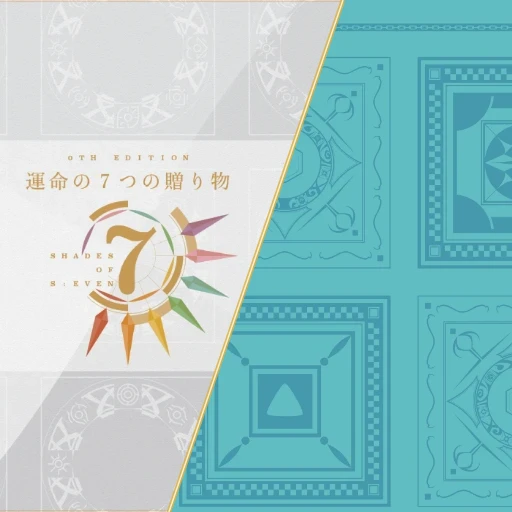
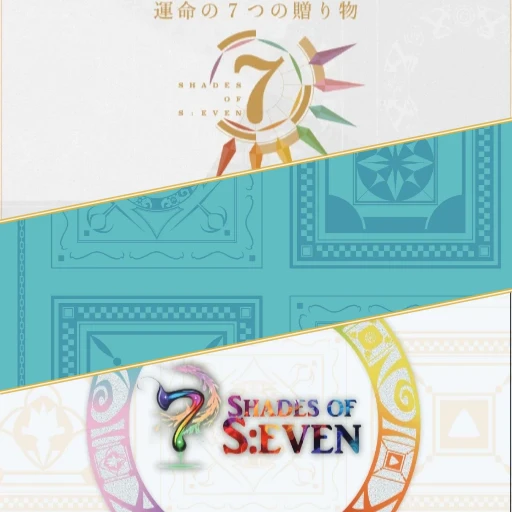
「まぜる」に旧0thを入れた／拡張は箱が無いのでパックで表す（続き840）
ユーザー指示2件:
・「混ぜる　には旧0th混ぜよう！」
・「拡張パックは別で箱のそばに置いてある感じで混ぜてるのを表現するのはどう？」

① まぜるが4セットに（リメイク＋0th拡張＋1st＋旧0th）。枚数の決まりは1枚も
   変えていない（112枚・7色×14・虹7・白4・黒3）。種類が 64 → 78。

② 🔴 調べたらサーバーに旧0thの表がそもそも無く、cardSet === "0th" の枝も
   無かった（＝オンラインで旧0thを選ぶとリメイクの山札になっていた）。
   表と枝の両方を写し、ズレを見張る検査も足した（A/B で4通りとも名指しで落ちる）。
   山札一覧（この対局の山）にも旧0thの節を足した。

③ 箱の帯を3本に。縦に割ると題字もロゴも切れるので横に割った
   （143px＝スマホの実寸で並べて決めた）。

④ 0th拡張だけは箱が無いので、エディションを選ぶ画面で箱の右下にパックを置いた。
   袋は開封の演出と同じ部品・封は切らない姿・指を食べない。

実測 28項目（スマホ横932x430 / PC 1280x800）・NG 0・例外0・404 0。
npm run check 27本とも合格。

🔴 Edge Function の再デプロイが要る（流すまではオンラインだけ古い山札）。
SQL の変更は無い。

diff --git a/src/changelog.js b/src/changelog.js
@@ -93,6 +93,17 @@ export const CHANGELOG = [
       "⚠ 焼く時に2つ踏んだ。①斜めにずらした帯をそのまま切ると**左上と右下の角に地（黒）の三角**が残る（両端の帯を画面の外まで広げて解決）②帯の中の絵を 0.78倍に縮めたら**上下の全幅が暗くなった**（暗い画素 21.6%。高さいっぱいに敷いて解決）。どちらも 143px で撮って気づいた。",
       "⚠ 「扇に3枚重ねる」案と「四分割＋7色」案も描いて実寸で並べたが、前者は小さくすると3枚とも潰れ、後者は7色の帯が強すぎて箱に見えなかった。**使わない案はツールから消した**（眠ったコードを残すと次に誰かが同じ物を作りかける＝続き801 で実際に踏んだ）。",
       "⚠ 実測22項目（スマホ横932x430 と PC 1280x800）。✕は**真ん中・上端・下端の3点とも**最前面が✕／箱・矢印・文字の実寸／画面の外へ出ない・巻き取りも出ない／オーラの画素／まぜるの箱が出て**絵が本当に読める**・裏と側面も混ぜた絵／**対照: スマホの印が無ければ元の小ささ(8.8px)に戻る**。A/B で直す前に戻すと、✕の真ん中で `span.icon-action-button-icon-wrap`（親=options-menu-button）が返る＝**報告どおり押せない**ことを確かめた。",
+      "🔴 **「まぜる」に旧0th を入れた**（ユーザー指示「混ぜるには旧0th混ぜよう！」）。混ぜる相手が**リメイク＋0th拡張＋1st＋旧0th の4セット**になった。⚠ **枚数の決まりは1枚も変えていない**（7色×14・虹7・白4・黒3＝112枚）。増えるのは**種類**だけで 64 → **78種**。1色あたりの種類が8→10になったので、配りは「6種が2枚・1種が1枚」から「**4種が2枚・5種が1枚**」へ。**どの色の札も最低1枚は入る**（まぜても消える札が無い）ことは今までどおり毎回検査している。",
+      "🔴 **入れる前に数えた。** 色ごとの種類・ONLYの数・配りの結果・白黒の種類（白10・黒9）を先に出して、**112枚のまま・1枚も消えない**ことを確かめてから手を入れた（`scratchpad/_p840calc.mjs`）。⚠ `src/cards-data.js` は node から import すると止まるので、検査と同じやり方で**本文を読んで**表を起こした。",
+      "🔴🔴 **サーバー側（Edge Function）に旧0thの表がそもそも無かった。** `cardSet === \"0th\"` の枝も無く、知らない値として**リメイクの山札に落ちていた**——つまりオンラインで旧0thを選ぶと、CPU戦と山札の中身が食い違っていた。まぜるが旧0thを見るようになったので、**表（19種）と枝の両方**を写した。⚠ 置き場所は `const MIXED_PER_COLOR` より**前**——検査がそこから `deckPoolForCardSet` までを切り出してそのまま動かすので、間に表を入れると落ちる（続き744 の実害）。",
+      "⚠ 写しがズレない見張りも足した（`check-cards` に旧0thの節）。0th拡張・1st とまったく同じ見方に加えて、**山札を組む枝そのもの**（`cardSet === \"0th\"` が在るか・まぜるが旧0thを渡しているか）も見る——**表だけ写して枝を足し忘れると、黙ってリメイクの山になる**ので。A/B で4通り崩して、4通りとも名指しで落ちることを確かめた（終わってから指紋で元に戻ったことも照合）。",
+      "🔴 **山札一覧（この対局の山）にも旧0thの節を足した。** 足し忘れると「一覧に無い札が対局で出てくる」という、いちばん困る形になる。**新しいセットを混ぜる時、直す所は山札の組み立てだけではない**（続き758 で `ALL_CARDS` を足し忘れたのと同じ家族）。",
+      "🔴 **まぜるの箱の帯を3本にした**（リメイク／1st／旧0th）。⚠ ところが**縦に3つ割ると全部読めなくなった**——512px角の蓋を縦3分割すると1本あたり幅の1/3しか見えず、題字もロゴも真ん中で切れる。⇒ **横に割った**（幅は丸ごと見えるので「運命の７つの贈り物」も「SHADES OF S:EVEN」も虹の輪も読める）。**縦と横を並べて143px＝スマホの実寸で見てから決めた。**",
+      "⚠ 斜めのずれ（傾き）も**帯の太さに比例**させた。決め打ちのままだと、帯が2本から3本になった時にずれが帯の太さを越えて、**どの帯も隣の絵で埋まる**。",
+      "🔴 **0th拡張だけは箱が無い**（ブースターパックで売られた拡張）ので、帯には入れられない。⇒ ユーザー案「**拡張パックは別で箱のそばに置いてある感じで混ぜてるのを表現**」どおり、エディションを選ぶ画面で**箱の右下にパックを1つ立てかけた**。袋には元から「0TH EDITION」「BOOSTER PACK」と刷ってあるので、文字を足していない。",
+      "⚠ 袋は開封の演出と**同じ部品**（pack-bag.js が唯一の持ち主＝写しを作らない）。封は切らない姿で出す。`pointer-events: none` なので**箱を指で回す操作を食べない**（教訓4 の家族）。画像も canvas も1枚も足していない（袋は全部 CSS のグラデーション＝#441/#607）。",
+      "🔴 袋の大きさは**文書に入ってから実測して**決める（rem が何px かに頼らない）。最初は作った直後に測っていたが、その時点ではまだ文書に付いていないので `offsetHeight` が 0 ＝「測れたつもりで倍率が無限大」になる。⇒ 全部並べ終わってから測る形にした。",
+      "⚠ 実測28項目（スマホ横932x430・PC 1280x800）。パックが在る／「0TH EDITION」「BOOSTER PACK」と出る／高さが箱の0.65倍／箱の右に在る／画面の中に在る／**指を食べない**（最前面はパックではない）／**対照: パックは「まぜる」の札だけ**／蓋の絵が mixed-top.webp ／画面の外へ出ない・巻き取りも出ない。山札は**本物のアプリの中で組んで** 112枚・78種・7色とも14枚・虹7白4黒3・**4セットとも入っている**ことと、**山札一覧に旧0thの節が出る**ことまで見た。",
     ],
     devItemsEn: [
       "The deck-offer table gained a skin column, so the lid art travels with the offer instead of living only on the owner's device.",
@@ -116,6 +127,17 @@ export const CHANGELOG = [
       "Two baking mistakes caught by looking at the result at real size: slanted bands leave dark triangles in the corners unless they extend past the canvas, and shrinking the art inside a band leaves dark strips along the top and bottom.",
       "A fanned-lids design and a quartered one were drawn and compared at real size first; both read worse when small, and the unused branches were deleted from the tool rather than left asleep.",
       "Measured with 22 checks on phone and desktop sizes, with an A/B that reverts each fix and confirms the gear takes the tap again.",
+      "Old 0th now joins the Mixed deck, so it draws from four editions instead of three. The size rules are untouched: still 112 cards, fourteen of each colour; only the variety grows, from 64 kinds to 78.",
+      "The distribution was counted before the change, confirming nothing drops out: every colour card still gets at least one copy.",
+      "The server had no Old 0th table at all and no branch for it, so choosing Old 0th online silently built the remake deck. Both the table and the branch are now copied across, placed before the block the checker slices out and runs.",
+      "A check now compares that copy with the source and also looks for the branch itself, because copying the table without adding the branch fails silently; four deliberate breakages were each named by the checker.",
+      "The in-game deck list gained the Old 0th section too. Forgetting it would mean cards appearing in play that the list does not show.",
+      "The Mixed lid now carries three bands. Splitting a square lid into three vertical bands cut every title in half, so the bands run horizontally instead; the two versions were compared at real phone size before choosing.",
+      "The slant is now proportional to the band, since a fixed slant exceeds the band width once there are three of them.",
+      "The 0th expansion was sold as a booster pack and has no box, so it cannot be a band. A booster pack now leans against the box instead, which is what the pack already says on it.",
+      "The pack is the same component the opening animation uses, shown sealed, and it ignores pointer events so it never steals the finger that spins the box.",
+      "Its size is measured after it is in the document; measuring at creation time returns zero height and an infinite scale factor.",
+      "Measured with 28 checks, including building the Mixed deck inside the real app and confirming all four editions are present.",
     ],
   },
   {

diff --git a/supabase/functions/so7-apply-action.ts b/supabase/functions/so7-apply-action.ts
@@ -146,8 +146,39 @@ const FIRST_ED_NORMAL_CARDS: { id: string; color: string; count: number }[] = [
   { id: "1st-black-great-order", color: "black", count: 2 },
 ];
 
+// 旧0th EDITION（白地に虹の輪の版・2026.04 第2版）の通常カード19種。
+// 🔴 **src/cards-data-0th.js と同じ内容を持つ写し**（正はあちら＝tools/gen-0th-text.mjs が作る）。
+//   枚数を直す時は両方。7色は1色2種×7枚＝98、無色5種で7枚（白2+2・黒1+1+1）＝105枚。
+//   これにリメイクのなないろの欠片7枚を足して112枚でリメイクと同じになる。
+// ⚠ 旧0thには**虹・エターナル・ファーストが無い**（どれもリメイクのものをそのまま使う）。
+// ⚠ 「まぜる」（続き840 で4セット目に入った）もこの表を見るので、**写し忘れると
+//   CPU戦とフレンドリーマッチで山札の中身が違う**という一番分かりにくい形で出る。
+const OLD0TH_NORMAL_CARDS: { id: string; color: string; count: number }[] = [
+  { id: "0th-red-dash", color: "red", count: 7 },
+  { id: "0th-red-counterattack", color: "red", count: 7 },
+  { id: "0th-orange-force", color: "orange", count: 7 },
+  { id: "0th-orange-lost-item", color: "orange", count: 7 },
+  { id: "0th-yellow-steal", color: "yellow", count: 7 },
+  { id: "0th-yellow-thunder", color: "yellow", count: 7 },
+  { id: "0th-green-peoples-road", color: "green", count: 7 },
+  { id: "0th-green-rich-whim", color: "green", count: 7 },
+  { id: "0th-blue-greedy-bridge", color: "blue", count: 7 },
+  { id: "0th-blue-set-trap", color: "blue", count: 7 },
+  { id: "0th-pink-disclosure", color: "pink", count: 7 },
+  { id: "0th-pink-favorite-flower", color: "pink", count: 7 },
+  { id: "0th-purple-wait", color: "purple", count: 7 },
+  { id: "0th-purple-apocalypse", color: "purple", count: 7 },
+  { id: "0th-white-colorful-hole", color: "white", count: 2 },
+  { id: "0th-white-rainbow-rain", color: "white", count: 2 },
+  { id: "0th-black-faded-frog", color: "black", count: 1 },
+  { id: "0th-black-greedy-palette", color: "black", count: 1 },
+  { id: "0th-black-rainbow-curse", color: "black", count: 1 },
+];
+
 // どのカードセットで山札を組むか。クライアント（src/card-set.js）と同じ文字列。
 // 「まぜる」の山札を、通常のエディションと同じ内訳（7色×14枚・虹7・白4・黒3＝112枚）で組む。
+// 🔴【続き840】混ぜる相手は **リメイク＋0th拡張＋1st＋旧0th の4セット**（ユーザー指示
+//   「混ぜるには旧0th混ぜよう！」）。枚数の決まりは1枚も変えていない（種類が 64 → 78 に増える）。
 // 🔴 これは src/mixed-deck.js の**写し**。考え方の全文はあちらの冒頭に書いてある。
 //   ズレると「CPU戦とフレンドリーマッチで山札の中身が違う」という分かりにくい形で出るので、
 //   tools/check-cards.mjs が毎回照合する。
@@ -179,9 +210,10 @@ function mixedPickRandom<T>(list: T[], n: number): T[] {
 function buildMixedNormalCards(
   remake: { id: string; color: string; count: number }[],
   ex0: { id: string; color: string; count: number }[],
-  firstEd: { id: string; color: string; count: number }[]
+  firstEd: { id: string; color: string; count: number }[],
+  old0th: { id: string; color: string; count: number }[]
 ): { id: string; color: string; count: number }[] {
-  const sets = [remake || [], ex0 || [], firstEd || []];
+  const sets = [remake || [], ex0 || [], firstEd || [], old0th || []];
   const out: { id: string; color: string; count: number }[] = [];
   for (const color of MIXED_COLORS) {
     const perSet = sets.map((s) => s.filter((c) => c.color === color));
@@ -217,7 +249,15 @@ function deckPoolForCardSet(cardSet: unknown): { id: string; color: string; coun
     // 1st EDITION のみ。なないろの欠片はリメイクのものと同じカードなので使い回す。
     return [...FIRST_ED_NORMAL_CARDS, ...NORMAL_CARDS.filter((c) => c.id === "rainbow-shard")];
   }
-  if (cardSet === "mixed") return buildMixedNormalCards(NORMAL_CARDS, EX0_NORMAL_CARDS, FIRST_ED_NORMAL_CARDS);
+  // 🔴【続き840】旧0thの枝が**今まで無かった**（知らない値としてリメイクに落ちていた＝
+  //   オンラインで旧0thを選ぶと、CPU戦と山札の中身が食い違っていた）。
+  if (cardSet === "0th") {
+    // 旧0thのみ。なないろの欠片はリメイクのものと同じカードなので使い回す。
+    return [...OLD0TH_NORMAL_CARDS, ...NORMAL_CARDS.filter((c) => c.id === "rainbow-shard")];
+  }
+  if (cardSet === "mixed") {
+    return buildMixedNormalCards(NORMAL_CARDS, EX0_NORMAL_CARDS, FIRST_ED_NORMAL_CARDS, OLD0TH_NORMAL_CARDS);
+  }
   return NORMAL_CARDS; // 既定（知らない値が来た時もここ＝安全側）
 }
 

diff --git a/src/mixed-deck.js b/src/mixed-deck.js
@@ -4,27 +4,34 @@
 //   たとえば赤は全部で１４枚にしてください。その中で混ぜるカードのバランスがなるべく
 //   均等になるようにしてください。」
 //
+// 🔴 ユーザー指示（2026-11-24・続き840）: 「**混ぜるには旧0th混ぜよう！**」
+//   ⇒ 混ぜる相手は **リメイク＋0th拡張＋1st＋旧0th の4セット**になった。
+//     枚数の決まり（7色×14・虹7・白4・黒3＝112枚）は**1枚も変えていない**。
+//     ⚠ サーバー側（supabase/functions/so7-apply-action.ts）の写しにも
+//       **旧0thの表そのもの**が要る（無いと「CPU戦とフレンドリーマッチで山札が違う」になる）。
+//
 // それまでは3つのセットを**そのまま繋げていた**ので、赤だけで 14+14+14＝42枚、
 // 合計 322枚という別物の山になっていた（盤面49マスに配った後の山札が厚すぎて、
 // 1回の対局で出てくる札の割合も変わる）。
 //
 // ■ 組み方
 //   ・7色はそれぞれ **14枚**（通常のエディションと同じ）
-//   ・なないろの欠片 **7枚**（3セットで同じ札なので1種類しかない）
+//   ・なないろの欠片 **7枚**（どのセットでも同じ札なので1種類しかない。旧0thは虹を
+//     自分では持たず、リメイクのものを使い回している）
 //   ・白 **4枚** ＋ 黒 **3枚**（リメイク／0th拡張と同じ内訳）
 //   合計 98 + 7 + 7 = **112枚**＝リメイク・0th拡張・1st とぴったり同じ。
 //
 // ■ 色（7色）の配り方 ＝ なるべく均等
-//   その色の種類を3セットから全部集めると**8種類**（リメイク2・0th拡張4・1st 2）。
+//   その色の種類を4セットから全部集めると**10種類**（リメイク2・0th拡張4・1st 2・旧0th 2）。
 //   🔴 **ONLYカード（元のセットで1枚しか入らない札）は1枚のまま**にする
 //     （0th拡張の決まり「ONLYカードは1枚ずつしか入れれません」）。
-//   残り7種類で13枚を分けるので、**6種類が2枚・1種類が1枚**になる。
+//   残り9種類で13枚を分けるので、**4種類が2枚・5種類が1枚**になる。
 //   ⇒ **どの種類も最低1枚は入る**（まぜても消える札が無い）。
 //   ⚠ 「余りの1枚」がいつも同じエディションへ偏らないよう、並べる時に
 //     **エディションを交互**にしてから先頭から配る。
 //
 // ■ 白黒だけは全種類を入れられない
-//   白は8種類・黒は6種類あるのに、枠は白4・黒3しかない。
+//   白は10種類・黒は9種類あるのに、枠は白4・黒3しかない。
 //   ⇒ **毎回その中から無作為に選ぶ**（各1枚）。こうすればどの札にも出番があり、
 //     対局ごとに顔ぶれが変わる。**決め打ちにすると半分の札が永久に出てこない。**
 //
@@ -59,9 +66,10 @@ function pickRandom(list, n) {
   return pool.slice(0, n);
 }
 
-// remake / ex0 / firstEd は、それぞれ { id, color, count } の配列。
-export function buildMixedNormalCards(remake, ex0, firstEd) {
-  const sets = [remake || [], ex0 || [], firstEd || []];
+// remake / ex0 / firstEd / old0th は、それぞれ { id, color, count } の配列。
+// ⚠ old0th は後から足した引数（続き840）。渡されなくても今までどおり動く（省略＝3セット）。
+export function buildMixedNormalCards(remake, ex0, firstEd, old0th) {
+  const sets = [remake || [], ex0 || [], firstEd || [], old0th || []];
   const out = [];
 
   // --- 7色 ---
@@ -84,7 +92,7 @@ export function buildMixedNormalCards(remake, ex0, firstEd) {
     }
   }
 
-  // --- なないろの欠片（3セットで同じ札なので1種類だけ） ---
+  // --- なないろの欠片（どのセットでも同じ札なので1種類だけ） ---
   const rainbow = sets.flat().find((c) => c.color === "rainbow");
   if (rainbow) out.push({ id: rainbow.id, color: "rainbow", count: rainbow.count ?? 7 });
 

diff --git a/src/edition-select-ui.js b/src/edition-select-ui.js
@@ -26,6 +26,7 @@
 
 import { CARD_SETS, getCardSet, setCardSet } from "./card-set.js";
 import { buildDeckBox3d, hasDeckBoxArt } from "./deck-box-3d.js";
+import { buildPackBag } from "./pack-bag.js"; // 「まぜる」の箱のそばに置く 0th拡張のパック（続き840）
 import { isFlatten2dMode } from "./tablet-2d-mode.js";
 import { t } from "./ui-text.js";
 import { createModalCloseX } from "./ui-helpers.js";
@@ -107,6 +108,7 @@ export function openEditionChooser({ 試験も = false, onChanged = null } = {})
   const 並び = [...公式, ...(試験も ? 試験 : [])];
   let 位置 = Math.max(0, 並び.findIndex((o) => o.set === getCardSet()));
   const 札たち = [];
+  const 袋たち = []; // まぜるの箱のそばに置く 0th拡張のパック（続き840）
 
   // 🔴【続き839】大きさは**ステージの座標**で決める（`root` は inset:0 なので 1600x900）。
   //   ユーザー報告「スマホでは全体的に箱とかいろいろ表示もっと大きくていいかも！」。
@@ -202,6 +204,24 @@ export function openEditionChooser({ 試験も = false, onChanged = null } = {})
       ph.addEventListener("click", () => 選ぶ(o.set));
       stage.appendChild(ph);
     }
+    // 🔴【続き840】ユーザー案「**あと拡張も混ざってるので拡張パックは別で箱のそばに
+    //   置いてある感じで混ぜてるのを表現するのはどう？**」。
+    //   まぜるの中身は リメイク＋**0th拡張**＋1st＋旧0th だが、**0th拡張だけ箱が無い**
+    //   （ブースターパックで売られた拡張）。⇒ 蓋の帯には入れず、箱の右下に袋を立てかける。
+    //   ⚠ 袋は開封の演出と同じ部品（pack-bag.js が唯一の持ち主＝写しを作らない）。
+    //     封は切らない＝なぞる道しるべも裂け目も出さない「置いてあるだけ」の姿。
+    //   ⚠ 大きさは**実測してから**決める（rem が何px かに頼らない）。
+    if (o.set === CARD_SETS.MIXED) {
+      const 袋置き = document.createElement("div");
+      袋置き.className = "edition-pack-beside";
+      袋置き.setAttribute("aria-hidden", "true");
+      const 袋 = buildPackBag({ cards: 7, 封を切る: false });
+      袋置き.appendChild(袋);
+      stage.appendChild(袋置き);
+      // 🔴 大きさは**画面に入ってから**決める（ここではまだ文書に付いていないので
+      //   offsetHeight が 0 ＝「測れたつもりで倍率が Infinity」になる）。
+      袋たち.push({ 置き: 袋置き, 袋 });
+    }
     el.appendChild(stage);
 
     const nm = document.createElement("div");
@@ -222,6 +242,7 @@ export function openEditionChooser({ 試験も = false, onChanged = null } = {})
   function 組み立てる() {
     箱を片付ける();
     札たち.length = 0;
+    袋たち.length = 0;
     root.innerHTML = "";
 
     root.appendChild(createModalCloseX(とじる));
@@ -262,6 +283,18 @@ export function openEditionChooser({ 試験も = false, onChanged = null } = {})
 
     wrap.append(左, 台, 右);
     root.appendChild(wrap);
+
+    // 🔴 パックの大きさは**文書に入ってから実測して**決める（rem が何px かに頼らない）。
+    //   ⚠ 測れなければ何もしない＝CSS の既定（--edition-pack-scale: 0.3）のまま出る。
+    for (const { 置き, 袋 } of 袋たち) {
+      const 高 = 袋.offsetHeight;
+      if (高 <= 0) continue;
+      const 倍 = (箱の大きさ() * 0.6) / 高;
+      置き.style.setProperty("--edition-pack-scale", 倍.toFixed(3));
+      // 置き場は**袋と同じ大きさ**にする（傾けた角のぶんは外へはみ出すだけ）。
+      置き.style.width = Math.round(袋.offsetWidth * 倍) + "px";
+      置き.style.height = Math.round(高 * 倍) + "px";
+    }
 
     // 前に出ている物の名前と「これにする」。
     名前の行 = document.createElement("div");

diff --git a/src/deck-box-3d.js b/src/deck-box-3d.js
@@ -63,11 +63,13 @@ const 箱の絵 = {
   },
   // 🔴【続き839】「まぜる」の箱（ユーザー要望「まぜるやつも箱絵があってもいいかも！
   //   なんか色んな箱絵が混ざってる感じのかっこいい感じのやつ、既存の箱絵を組み合わせて」）。
-  //   ⚠ **新しく描いた絵は1枚も無い**——リメイクと 1st の面を斜めの帯で継いだもの
+  //   ⚠ **新しく描いた絵は1枚も無い**——リメイク／1st／旧0th の面を斜めの帯で継いだもの
   //     （`tools/make-mixed-box.mjs` で焼く。走らせ直せば同じ物が出る）。
-  //   ⚠ まぜるの中身は**リメイク＋0th拡張＋1st**（src/mixed-deck.js）。0th拡張は
-  //     ブースターパックで売られていて箱が無く、絵もリメイクの流用なので、
-  //     リメイクの帯がそのぶんも兼ねている。**旧0th は入らないので混ぜていない。**
+  //   🔴【続き840】まぜるの中身は**リメイク＋0th拡張＋1st＋旧0th**（src/mixed-deck.js）。
+  //     旧0th が入ったので帯は**3本**になった（ユーザー指示「混ぜるには旧0th混ぜよう！」）。
+  //     ⚠ 0th拡張だけはブースターパックで売られていて**箱が無い**ので帯に入れられない。
+  //       ⇒ エディションを選ぶ画面で**箱の横にパックを1つ置く**形で表している
+  //         （src/edition-select-ui.js。ユーザー案「拡張パックは別で箱のそばに置いてある感じで」）。
   mixed: {
     top: "assets/boxes/mixed-top.webp",
     back: "assets/boxes/mixed-back.webp",

diff --git a/src/style.css b/src/style.css
@@ -29489,6 +29489,32 @@ body.diagnostic-flatten-3d .edition-carousel-item.is-selected .deck-chooser-stag
 @media (prefers-reduced-motion: reduce) {
   .edition-carousel-item.is-selected .deck-chooser-stage::before { animation: none; }
 }
+/* 🔴【2026-11-24・続き840】ユーザー案「**あと拡張も混ざってるので拡張パックは別で箱の
+   そばに置いてある感じで混ぜてるのを表現するのはどう？**」。
+   まぜるの中身は リメイク＋**0th拡張**＋1st＋旧0th だが、**0th拡張だけ箱が無い**
+   （ブースターパックで売られた拡張）。⇒ 蓋の帯には入れず、箱の右下に袋を立てかける。
+   ⚠ `pointer-events: none`——箱を指で回す操作を食べない（教訓4 の家族）。
+   ⚠ 袋は CSS のグラデーションだけで描かれている（画像も canvas も足していない＝#441/#607）。
+   ⚠ 置き場の大きさは JS が実測して入れる（rem が何px かに頼らない）。 */
+.edition-carousel-item .deck-chooser-stage {
+  position: relative;
+}
+.edition-pack-beside {
+  position: absolute;
+  left: 84%;
+  bottom: -6%;
+  pointer-events: none;
+  z-index: 3;
+}
+.edition-pack-beside .pkc-pack {
+  position: absolute;
+  left: 0;
+  bottom: 0;
+  /* 🔴 縮めるのは**左下を軸に**。中心を軸にすると、置き場（JS が入れた大きさ）と
+     袋の実際の位置がずれて、箱から離れた所に浮く。 */
+  transform-origin: left bottom;
+  transform: rotate(-7deg) scale(var(--edition-pack-scale, 0.3));
+}
 .edition-carousel-arrow {
   flex: 0 0 auto;
   width: 2.6rem;

diff --git a/src/deck-viewer.js b/src/deck-viewer.js
@@ -407,10 +407,12 @@ export function buildDeckSections(opts = {}) {
   if (セット === CARD_SETS.FIRST_ED || 混ぜる) {
     wrap.appendChild(buildSection(t("deckviewer.firstEd"), 色でそろえる(FIRST_ED_NORMAL_CARDS)));
   }
-  // ⚠ 旧0th は「まぜる」には入れていない（mixed-deck.js は3セットで組んでいる）。
-  //   選んでいる時だけ出す。
-  //   ⚠ 旧0th は**管理者だけ**。全部出す時でもそこは変えない。
-  if (セット === CARD_SETS.OLD_0TH || (全部出す && isAdminUser())) {
+  // 🔴【続き840】旧0th は**「まぜる」にも入るようになった**（ユーザー指示「混ぜるには
+  //   旧0th混ぜよう！」）。⇒ まぜるを選んでいる時も出す。**出し忘れると「一覧に無い札が
+  //   対局で出てくる」**（この関数の上のコメントのとおり、いちばん困る形）。
+  //   ⚠ 旧0th は**管理者だけ**。「全部出す」時だけはそこを変えない
+  //     （まぜる自体が管理者だけのセットなので、混ぜるの枝には要らない）。
+  if (セット === CARD_SETS.OLD_0TH || セット === CARD_SETS.MIXED || (全部出す && isAdminUser())) {
     wrap.appendChild(buildSection(t("deckviewer.old0th"), 色でそろえる(OLD0TH_NORMAL_CARDS)));
   }
   // 🔴【続き782】リメイク＋志炎者。リメイクの19種と志炎者7種の**両方**を出す。

diff --git a/src/cards-data.js b/src/cards-data.js
@@ -234,7 +234,11 @@ function 標準の山札() {
   //   枚数にしてください。たとえば赤は全部で１４枚に…その中で混ぜるカードのバランスが
   //   なるべく均等になるように」。以前は3セットを**そのまま繋げていた**ので赤だけで42枚・
   //   合計322枚になっていた。組み方は src/mixed-deck.js の冒頭に書いてある。
-  if (set === CARD_SETS.MIXED) return buildMixedNormalCards(NORMAL_CARDS, EX0_NORMAL_CARDS, FIRST_ED_NORMAL_CARDS);
+  //   🔴【続き840】ユーザー指示「混ぜるには旧0th混ぜよう！」⇒ **4セット目に旧0th**を足した。
+  //     枚数の決まり（7色×14・虹7・白4・黒3＝112枚）は変わらない（種類が 64 → 78 に増えるだけ）。
+  if (set === CARD_SETS.MIXED) {
+    return buildMixedNormalCards(NORMAL_CARDS, EX0_NORMAL_CARDS, FIRST_ED_NORMAL_CARDS, OLD0TH_NORMAL_CARDS);
+  }
   // 🔴【続き782】リメイク ＋ 志炎者（**各1枚**）。管理者のテスト用。
   //   ⚠ 志炎者の count は 7（山札に入れられる枚数）だが、ここでは **1枚ずつ**に上書きする
   //     （ユーザー指示「この時志炎者は１枚ずつでいいです」）。

diff --git a/src/card-set.js b/src/card-set.js
@@ -18,7 +18,9 @@ export const CARD_SETS = {
   EX0: "ex0", // 0th拡張の33種＋なないろの欠片
   FIRST_ED: "1st", // 1st EDITION の19種＋なないろの欠片（2026-11-05 追加）
   OLD_0TH: "0th", // 旧0th EDITION の19種＋なないろの欠片（2026-11-19 追加）
-  MIXED: "mixed", // 全部まぜる（枚数は単純に合算。試験用）
+  // 全部まぜる（試験用）。中身は**リメイク＋0th拡張＋1st＋旧0th の4セット**で、
+  // 枚数は通常のエディションと同じ 112枚（7色×14・虹7・白4・黒3）＝src/mixed-deck.js。
+  MIXED: "mixed",
   // 🔴【続き782】ユーザー依頼「管理者としてEDITION選ぶときリメイクと志炎者を混ぜたやつを
   //   ラインナップに入れたい。テスト用に！この時志炎者は１枚ずつでいいです」。
   //   ⚠ 志炎者は**限定報酬**なので、持ち物とは関係なく**このセットを選んだ時だけ**山札に入る

diff --git a/src/app-version.js b/src/app-version.js
@@ -1,3 +1,3 @@
 // 自動生成（.git/hooks/pre-commit）。デプロイのたびに更新される「今実行しているコード」の
 // バージョン。version.json と必ず同じ値になる。update-checker.js が使う基準値。
-export const APP_VERSION = "20261124-130144";
+export const APP_VERSION = "20261124-170730";
